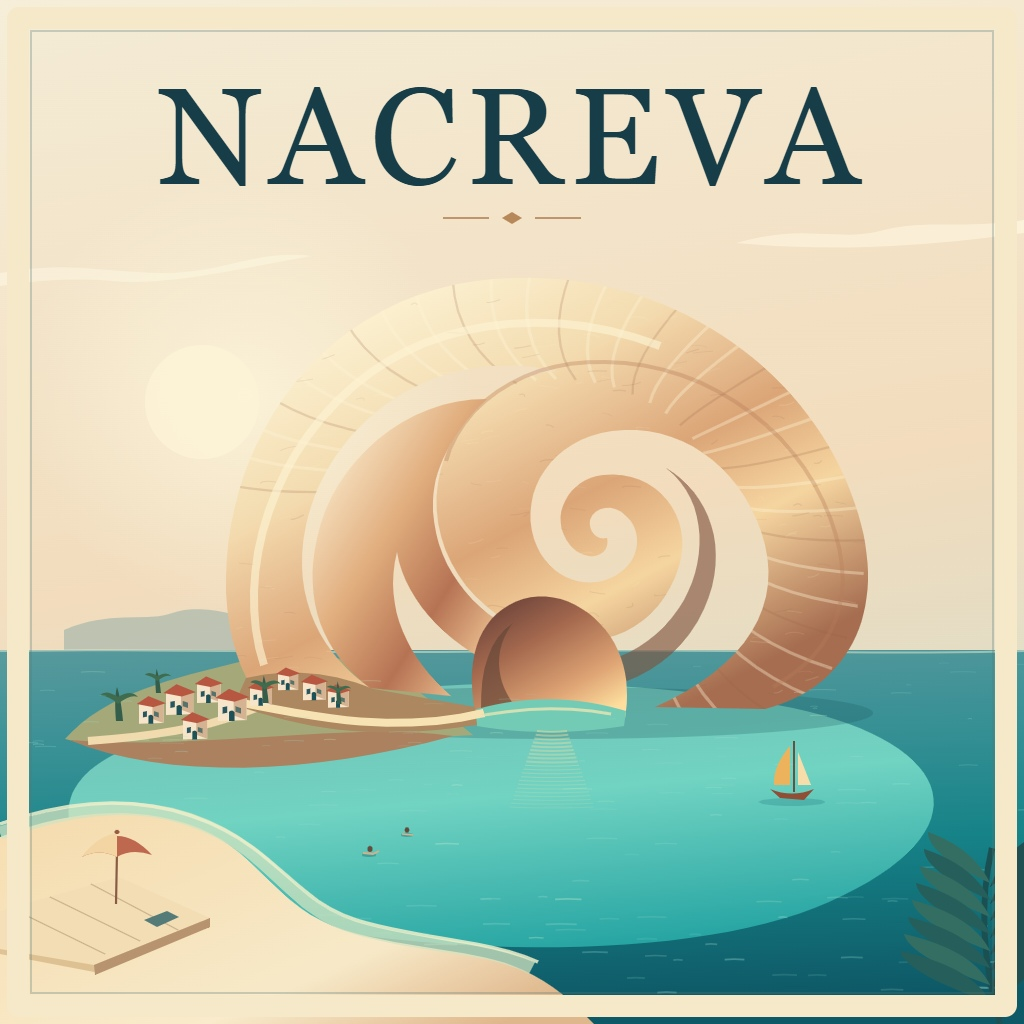
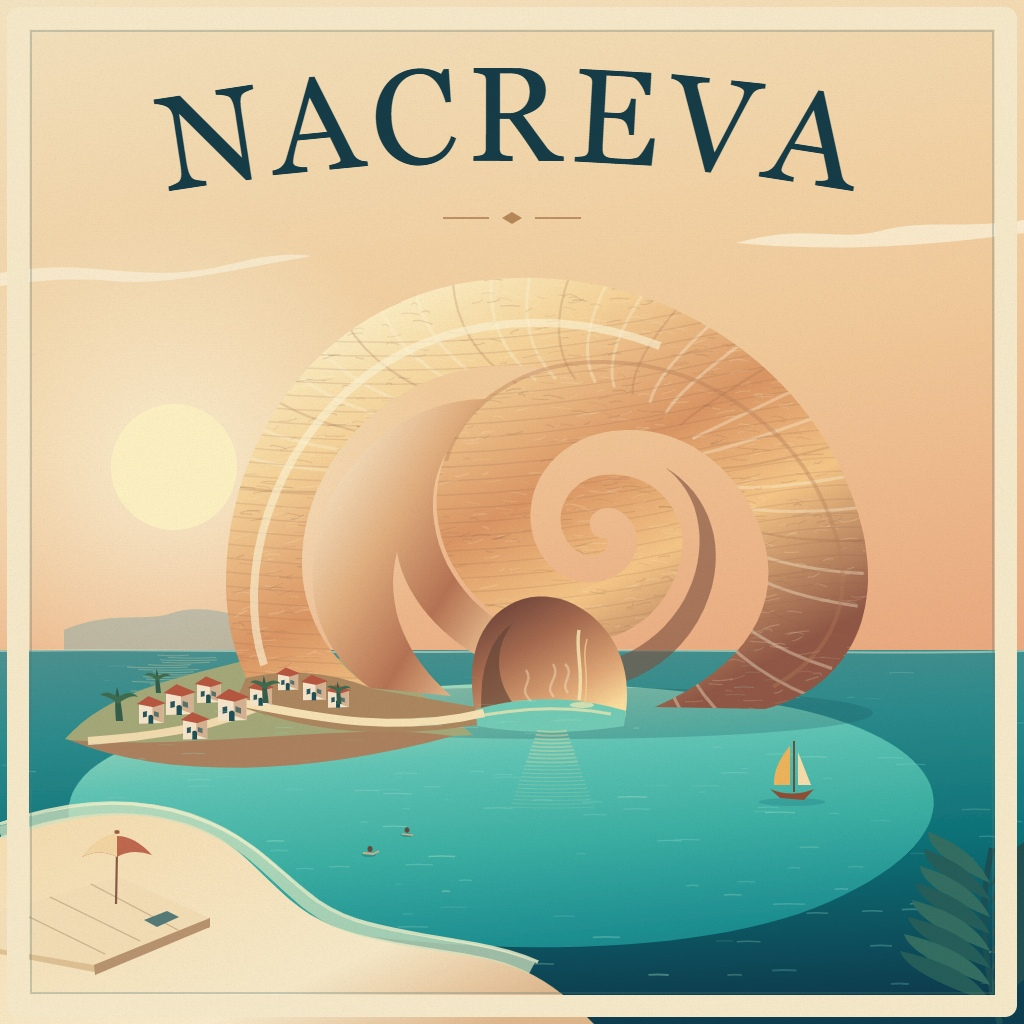
Refine-golden-light-bathing-spring-and-letterpress-texture

diff --git a/README.md b/README.md
@@ -4,7 +4,7 @@
 [![rank](https://make.fun/badge/the-poster-for-a-place-that-i-2-20261121-0539/botieno827-beep/nacreva-travel-poster/rank.svg)](https://make.fun/bounty/the-poster-for-a-place-that-i-2-20261121-0539/leaderboard?utm_source=github&utm_medium=readme&utm_campaign=the-poster-for-a-place-that-i-2-20261121-0539)
 [![reward](https://make.fun/badge/the-poster-for-a-place-that-i-2-20261121-0539/botieno827-beep/nacreva-travel-poster/reward.svg)](https://make.fun/bounty/the-poster-for-a-place-that-i-2-20261121-0539?utm_source=github&utm_medium=readme&utm_campaign=the-poster-for-a-place-that-i-2-20261121-0539)
 
-An original travel poster for an imaginary island: a monumental limestone spiral shelters a warm turquoise lagoon. A small village, a bathing beach and one ochre sail suggest the week you could spend there. NACREVA is the only text within the picture.
+An original travel poster for an imaginary island: a monumental limestone spiral shelters a warm turquoise lagoon and a mineral spring. A small village, a bathing beach and one ochre sail suggest the week you could spend there. Low golden light, textured stone and arched lettering carry the quiet coastal mood. NACREVA is the only text within the picture.
 
 ![NACREVA travel poster](poster.jpg)
 

diff --git a/PROMPT.md b/PROMPT.md
@@ -2,6 +2,8 @@
 
 The built-in image generator was attempted and returned HTTP 403, "Image generation is not enabled for this group". No generated image was obtained or used. The final illustration is original procedural vector artwork written in `artwork.mjs`, following the direction below. The exact attempted prompt is preserved in the build session.
 
+After the first development grade, the illustration was revised with lower, warmer sunlight, a more luminous lagoon, more stone striation, a sheltered mineral spring, subtle print grain and gently arched lettering. The judge feedback praised the original landmark and layout but identified flat light and atmosphere as the largest weakness.
+
 Use case: ads-marketing
 Asset type: one finished square travel poster, 1024 × 1024 pixels, full bleed, for an invented destination.
 
